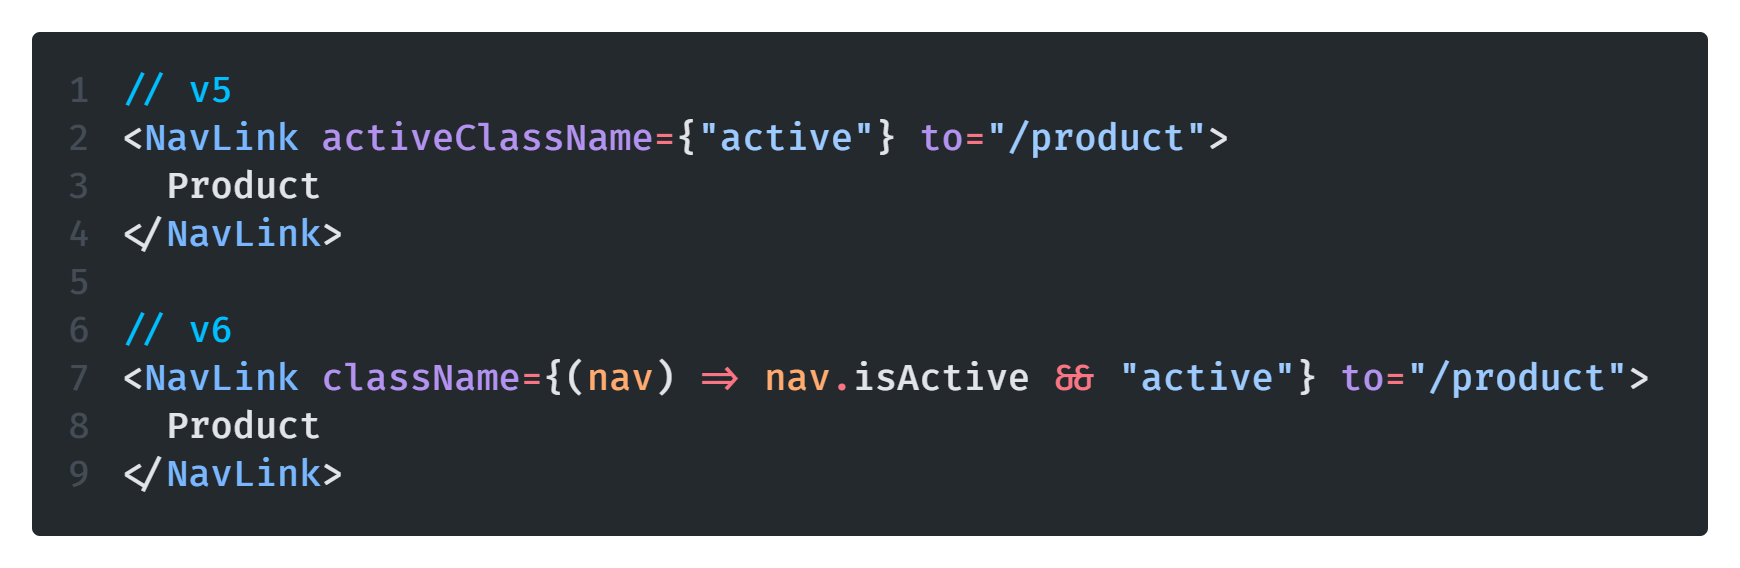
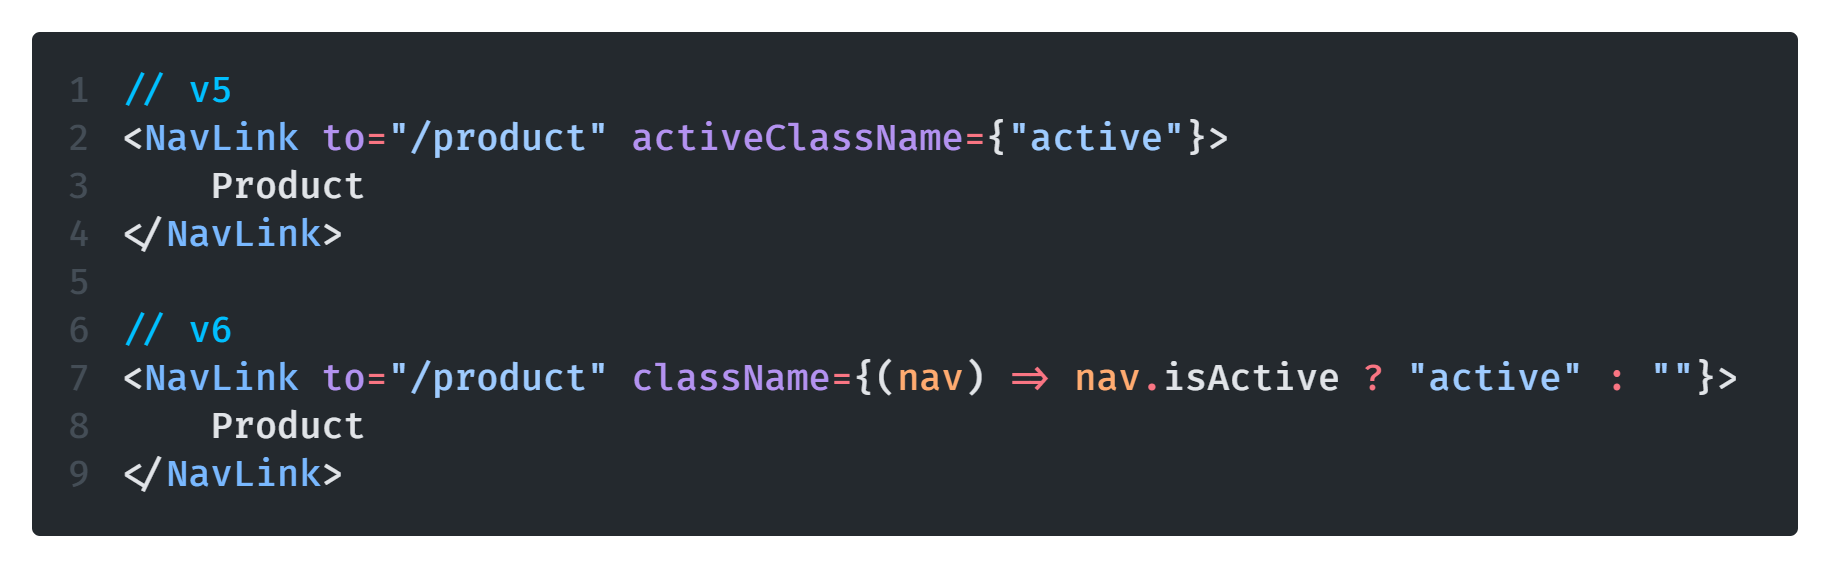
add imperative navigation in quote form

diff --git a/src/components/layout/MainNavigation.js b/src/components/layout/MainNavigation.js
@@ -48,7 +48,7 @@ const MainNavigation = () => {
                     <li>
                         <NavLink
                             to="quotes"
-                            className={(nav) => nav.isActive && "active"}
+                            className={(nav) => (nav.isActive ? "active" : "")}
                         >
                             All Quotes
                         </NavLink>
@@ -56,7 +56,7 @@ const MainNavigation = () => {
                     <li>
                         <NavLink
                             to="new-quote"
-                            className={(nav) => nav.isActive && "active"}
+                            className={(nav) => (nav.isActive ? "active" : "")}
                         >
                             Add a Quote
                         </NavLink>

diff --git a/src/pages/NewQuote.js b/src/pages/NewQuote.js
@@ -1,10 +1,15 @@
 import React from "react";
+import { useNavigate } from "react-router-dom";
 import QuoteForm from "../components/quotes/QuoteForm";
 
 const NewQuote = () => {
+    const navigate = useNavigate();
+
     const addQuoteHandler = (data) => {
         // data = { author, text }
         console.log(data);
+
+        navigate("/quotes", { replace: false });
     };
     return <QuoteForm onAddQuote={addQuoteHandler} />;
 };
